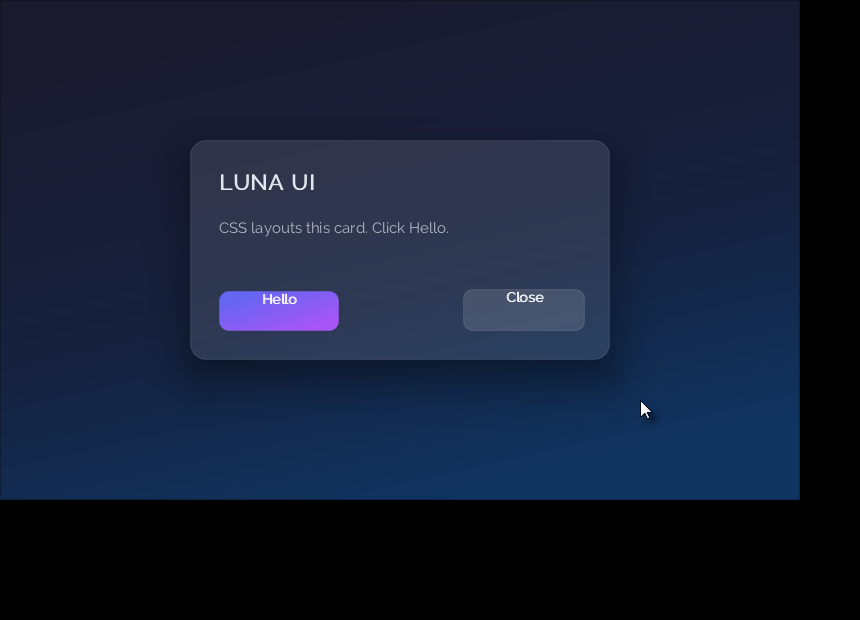
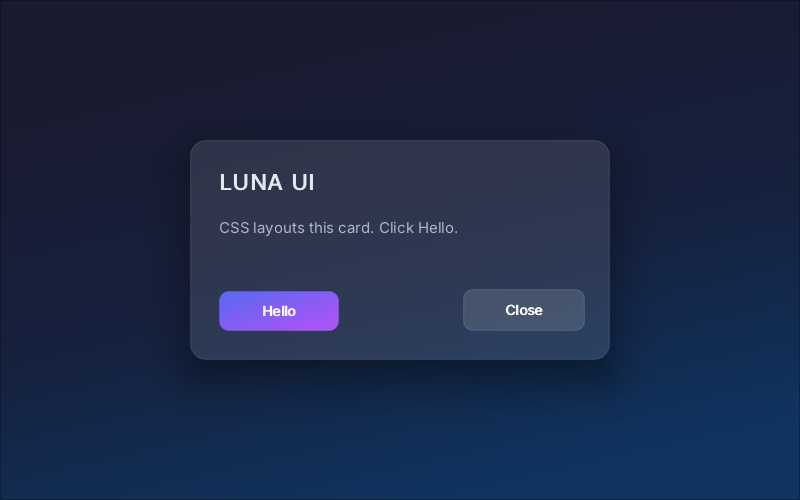
✨ Align Luna UI CSS rendering with browser behavior

diff --git a/luna-ui.h b/luna-ui.h
@@ -1539,9 +1539,10 @@ typedef struct {
     int has_rad_c[4]; float rad_c[4];   /* per-corner radius: tl, tr, br, bl */
     int has_width;  float width;
     int has_height; float height;
-    int has_padding; float padding;
+    int has_padding; int has_pad_t, has_pad_r, has_pad_b, has_pad_l; float padding;
     float pad_t, pad_r, pad_b, pad_l;
-    int has_margin; float margin_top, margin_right, margin_bottom, margin_left;
+    int has_margin; int has_margin_top, has_margin_right, has_margin_bottom, has_margin_left;
+    float margin_top, margin_right, margin_bottom, margin_left;
     int margin_top_auto, margin_right_auto, margin_bottom_auto, margin_left_auto;
     int has_left;   float left;
     int has_top;    float top;
@@ -3483,6 +3484,7 @@ static void parse_padding_shorthand(const char* val, StyleRule* rule) {
         tok = strtok(NULL, " \t");
     }
     rule->has_padding = 1;
+    rule->has_pad_t = rule->has_pad_r = rule->has_pad_b = rule->has_pad_l = 1;
     /* CSS shorthand: 1=all, 2=(v h), 3=(t h b), 4=(t r b l) */
     if (count == 1) {
         rule->pad_t = rule->pad_r = rule->pad_b = rule->pad_l = vals[0];
@@ -3512,6 +3514,8 @@ static void parse_margin_shorthand(const char* val, StyleRule* rule) {
         tok = strtok(NULL, " \t");
     }
     rule->has_margin = 1;
+    rule->has_margin_top = rule->has_margin_right = 1;
+    rule->has_margin_bottom = rule->has_margin_left = 1;
     if (count == 1) {
         rule->margin_top = rule->margin_right = rule->margin_bottom = rule->margin_left = vals[0];
     } else if (count == 2) {
@@ -4166,10 +4170,10 @@ static void apply_element_inline_style(LunaElement* e) {
         e->display_mode = rule.display_mode;
     }
     if (rule.has_margin) {
-        e->margin_top = rule.margin_top;
-        e->margin_right = rule.margin_right;
-        e->margin_bottom = rule.margin_bottom;
-        e->margin_left = rule.margin_left;
+        if (rule.has_margin_top) e->margin_top = rule.margin_top;
+        if (rule.has_margin_right) e->margin_right = rule.margin_right;
+        if (rule.has_margin_bottom) e->margin_bottom = rule.margin_bottom;
+        if (rule.has_margin_left) e->margin_left = rule.margin_left;
     }
     if (rule.has_shadow) {
         e->has_shadow = (rule.shadow_count > 0);
@@ -5057,15 +5061,15 @@ void parse_declarations(char* declarations, StyleRule* rule) {
                 }
             }
             else if (strcmp(key, "padding") == 0)          { parse_padding_shorthand(val, rule); }
-            else if (strcmp(key, "padding-top") == 0)      { rule->has_padding = 1; rule->pad_t = parse_float_val(val); }
-            else if (strcmp(key, "padding-right") == 0)    { rule->has_padding = 1; rule->pad_r = parse_float_val(val); }
-            else if (strcmp(key, "padding-bottom") == 0)   { rule->has_padding = 1; rule->pad_b = parse_float_val(val); }
-            else if (strcmp(key, "padding-left") == 0)     { rule->has_padding = 1; rule->pad_l = parse_float_val(val); }
+            else if (strcmp(key, "padding-top") == 0)      { rule->has_padding = 1; rule->has_pad_t = 1; rule->pad_t = parse_float_val(val); }
+            else if (strcmp(key, "padding-right") == 0)    { rule->has_padding = 1; rule->has_pad_r = 1; rule->pad_r = parse_float_val(val); }
+            else if (strcmp(key, "padding-bottom") == 0)   { rule->has_padding = 1; rule->has_pad_b = 1; rule->pad_b = parse_float_val(val); }
+            else if (strcmp(key, "padding-left") == 0)     { rule->has_padding = 1; rule->has_pad_l = 1; rule->pad_l = parse_float_val(val); }
             else if (strcmp(key, "margin") == 0)           { parse_margin_shorthand(val, rule); }
-            else if (strcmp(key, "margin-top") == 0)       { rule->has_margin = 1; if (strcmp(val,"auto")==0) rule->margin_top_auto=1; else rule->margin_top = parse_float_val(val); }
-            else if (strcmp(key, "margin-right") == 0)     { rule->has_margin = 1; if (strcmp(val,"auto")==0) rule->margin_right_auto=1; else rule->margin_right = parse_float_val(val); }
-            else if (strcmp(key, "margin-bottom") == 0)    { rule->has_margin = 1; if (strcmp(val,"auto")==0) rule->margin_bottom_auto=1; else rule->margin_bottom = parse_float_val(val); }
-            else if (strcmp(key, "margin-left") == 0)      { rule->has_margin = 1; if (strcmp(val,"auto")==0) rule->margin_left_auto=1; else rule->margin_left = parse_float_val(val); }
+            else if (strcmp(key, "margin-top") == 0)       { rule->has_margin = 1; rule->has_margin_top = 1; if (strcmp(val,"auto")==0) rule->margin_top_auto=1; else rule->margin_top = parse_float_val(val); }
+            else if (strcmp(key, "margin-right") == 0)     { rule->has_margin = 1; rule->has_margin_right = 1; if (strcmp(val,"auto")==0) rule->margin_right_auto=1; else rule->margin_right = parse_float_val(val); }
+            else if (strcmp(key, "margin-bottom") == 0)    { rule->has_margin = 1; rule->has_margin_bottom = 1; if (strcmp(val,"auto")==0) rule->margin_bottom_auto=1; else rule->margin_bottom = parse_float_val(val); }
+            else if (strcmp(key, "margin-left") == 0)      { rule->has_margin = 1; rule->has_margin_left = 1; if (strcmp(val,"auto")==0) rule->margin_left_auto=1; else rule->margin_left = parse_float_val(val); }
             else if (strcmp(key, "inset") == 0)            { parse_inset_shorthand(val, rule); }
             else if (strcmp(key, "left") == 0) { rule->has_left = 1; parse_length_calc(val, &rule->left, &rule->pct_left, &rule->raw_left_off); if (rule->pct_left) rule->raw_left = rule->left; }
             else if (strcmp(key, "top") == 0)  { rule->has_top = 1; parse_length_calc(val, &rule->top, &rule->pct_top, &rule->raw_top_off); if (rule->pct_top) rule->raw_top = rule->top; }
@@ -6383,6 +6387,24 @@ void update_element_style(LunaElement* e) {
             e->t_b = parent->t_b; e->t_a = parent->t_a;
         }
     }
+    /* Compact browser-UA defaults.  They live below author rules in the
+     * cascade, so a longhand such as `h1 { margin-bottom:12px }` must not
+     * accidentally erase the other three UA margin sides.  Keeping these
+     * scalar defaults here is allocation-free and adds no render-time work. */
+    if (strcmp(e->type, "body") == 0) {
+        e->margin_top = e->margin_right = e->margin_bottom = e->margin_left = 8.0f;
+    } else if (strcmp(e->type, "h1") == 0) {
+        e->font_bold = 1;
+        e->margin_top = e->margin_bottom = e->font_size * 0.67f;
+    } else if (strcmp(e->type, "h2") == 0) {
+        e->font_bold = 1;
+        e->margin_top = e->margin_bottom = e->font_size * 0.83f;
+    } else if (strcmp(e->type, "h3") == 0) {
+        e->font_bold = 1;
+        e->margin_top = e->margin_bottom = e->font_size;
+    } else if (strcmp(e->type, "p") == 0) {
+        e->margin_top = e->margin_bottom = e->font_size;
+    }
     e->has_text_shadow = 0;
     e->tsh_dx = e->tsh_dy = e->tsh_blur = 0.0f;
     e->tsh_r = e->tsh_g = e->tsh_b = 0.0f; e->tsh_a = 0.0f;
@@ -6432,6 +6454,8 @@ void update_element_style(LunaElement* e) {
     e->grad_rad_rx = 0.0f;
     e->grad_rad_ry = 0.0f;
 
+    int author_margin_top = 0, author_margin_right = 0;
+    int author_margin_bottom = 0, author_margin_left = 0;
     uint64_t rule_candidates[LUNA_RULE_WORDS];
     build_rule_candidates(e, rule_candidates);
     for (int i = 0; i < rule_count; i++) {
@@ -6553,18 +6577,16 @@ void update_element_style(LunaElement* e) {
         }
         if (r->has_padding) {
             e->padding = r->padding;
-            e->pad_t = r->pad_t; e->pad_r = r->pad_r;
-            e->pad_b = r->pad_b; e->pad_l = r->pad_l;
+            if (r->has_pad_t) e->pad_t = r->pad_t;
+            if (r->has_pad_r) e->pad_r = r->pad_r;
+            if (r->has_pad_b) e->pad_b = r->pad_b;
+            if (r->has_pad_l) e->pad_l = r->pad_l;
         }
         if (r->has_margin) {
-            e->margin_top = r->margin_top;
-            e->margin_right = r->margin_right;
-            e->margin_bottom = r->margin_bottom;
-            e->margin_left = r->margin_left;
-            e->margin_top_auto = r->margin_top_auto;
-            e->margin_right_auto = r->margin_right_auto;
-            e->margin_bottom_auto = r->margin_bottom_auto;
-            e->margin_left_auto = r->margin_left_auto;
+            if (r->has_margin_top) { author_margin_top = 1; e->margin_top = r->margin_top; e->margin_top_auto = r->margin_top_auto; }
+            if (r->has_margin_right) { author_margin_right = 1; e->margin_right = r->margin_right; e->margin_right_auto = r->margin_right_auto; }
+            if (r->has_margin_bottom) { author_margin_bottom = 1; e->margin_bottom = r->margin_bottom; e->margin_bottom_auto = r->margin_bottom_auto; }
+            if (r->has_margin_left) { author_margin_left = 1; e->margin_left = r->margin_left; e->margin_left_auto = r->margin_left_auto; }
         }
         if (r->has_position) {
             e->position_fixed = r->position_fixed;
@@ -6843,6 +6865,18 @@ void update_element_style(LunaElement* e) {
         }
     }
 
+    /* UA em margins compute from the final font size after the author cascade,
+     * not the inherited size that was present when defaults were seeded. */
+    if (strcmp(e->type, "h1") == 0 || strcmp(e->type, "h2") == 0 ||
+        strcmp(e->type, "h3") == 0 || strcmp(e->type, "p") == 0) {
+        float em = 1.0f;
+        if (strcmp(e->type, "h1") == 0) em = 0.67f;
+        else if (strcmp(e->type, "h2") == 0) em = 0.83f;
+        if (!author_margin_top) e->margin_top = e->font_size * em;
+        if (!author_margin_bottom) e->margin_bottom = e->font_size * em;
+    }
+    (void)author_margin_right;
+    (void)author_margin_left;
     apply_element_inline_style(e);
 
     if (e->letter_spacing_em) {
@@ -8302,7 +8336,7 @@ void update_layout() {
             /* Browser layout gives the body an auto height.  Do not make a
              * flex body viewport-sized unless CSS explicitly asks for it. */
             float ml = e->margin_left, mr = e->margin_right;
-            float mt = e->margin_top, mb = e->margin_bottom;
+            float mt = e->margin_top;
             e->x = ml; e->y = mt;
             e->w = window_width - ml - mr;
             if (e->w < 0.0f) e->w = 0.0f;
@@ -8315,7 +8349,10 @@ void update_layout() {
                     ? e->css_height + e->pad_t + e->pad_b + e->border_width * 2.0f
                     : e->css_height;
             } else {
-                e->h = flow_content_height(e) + mt + mb;
+                /* Margins are outside the body's border box.  Including them
+                 * here and again during positioning inflated the flex cross
+                 * axis by 16px for the browser-default 8px body margin. */
+                e->h = flow_content_height(e);
             }
             if (e->h < 0.0f) e->h = 0.0f;
             continue;
@@ -12191,12 +12228,20 @@ void render_text_fx(const char* text, float x, float y, float box_w, float box_h
             float ey = y - g_render_off_y;
             uni4f(tx_loc.uElemBounds, &tx_uni.uElemBounds, ex, ey, box_w, box_h);
             render_text_pass(atlas, line, start_x, baseline, 1.0f, 1.0f, 1.0f, 1.0f);
-            if (is_fake_bold) render_text_pass(atlas, line, start_x + 1.0f, baseline, 1.0f, 1.0f, 1.0f, 1.0f);
+            if (is_fake_bold) {
+                render_text_pass(atlas, line, start_x + 1.0f, baseline, 1.0f, 1.0f, 1.0f, 1.0f);
+                if (fsize >= 24.0f)
+                    render_text_pass(atlas, line, start_x + 2.0f, baseline, 1.0f, 1.0f, 1.0f, 1.0f);
+            }
             luna_use_program(text_program);
             uni1i(tx_loc.uGradMode, &tx_uni.uGradMode, 0);
         } else {
             render_text_pass(atlas, line, start_x, baseline, r, g, b, a);
-            if (is_fake_bold) render_text_pass(atlas, line, start_x + 1.0f, baseline, r, g, b, a);
+            if (is_fake_bold) {
+                render_text_pass(atlas, line, start_x + 1.0f, baseline, r, g, b, a);
+                if (fsize >= 24.0f)
+                    render_text_pass(atlas, line, start_x + 2.0f, baseline, r, g, b, a);
+            }
         }
         /* CSS text-decoration: underline / line-through */
         if (fx && fx->text_decoration) {
@@ -13774,6 +13819,19 @@ void luna_render(int fbw, int fbh) {
         if (eff_op <= 0.004f) { damage_drop(i); continue; }
         float dx, dy, dw, dh;
         rc_element_draw_bounds(i, &dx, &dy, &dw, &dh);
+        /* CSS propagates the root body's background to the canvas.  Keep the
+         * body's auto-height box for flex/layout, but paint its background
+         * across the whole initial containing block.  Gradients are images
+         * and repeat by default, using the body outer box as their tile. */
+        int canvas_body = g_render_root < 0 && e->parent_idx == -1 &&
+                          strcmp(e->type, "body") == 0;
+        float canvas_tile_h = e->h + e->margin_top + e->margin_bottom;
+        if (canvas_body) {
+            dx = g_render_off_x;
+            dy = g_render_off_y;
+            dw = LUNA_RRES_X;
+            dh = LUNA_RRES_Y;
+        }
         if (dw <= 0.0f || dh <= 0.0f) { damage_drop(i); continue; }
         float scale = e->cur_scale;
         /* Viewport culling: skip elements fully off the surface region. */
@@ -13871,9 +13929,22 @@ void luna_render(int fbw, int fbh) {
                            rad4, e->border_width,
                            e->cur_bd_r, e->cur_bd_g, e->cur_bd_b, e->cur_bd_a * eff_op, NULL);
         } else {
-        draw_rect_full(dx, dy, dw, dh, e->cur_r, e->cur_g, e->cur_b, e->cur_a * eff_op,
-                       rad4, e->border_width,
-                       e->cur_bd_r, e->cur_bd_g, e->cur_bd_b, e->cur_bd_a * eff_op, e);
+        if (canvas_body && e->has_gradient && canvas_tile_h > 0.5f &&
+            canvas_tile_h < dh - 0.5f) {
+            float tile_y = dy;
+            while (tile_y < dy + dh) {
+                float tile_h = canvas_tile_h;
+                if (tile_y + tile_h > dy + dh) tile_h = dy + dh - tile_y;
+                draw_rect_full(dx, tile_y, dw, tile_h,
+                               e->cur_r, e->cur_g, e->cur_b, e->cur_a * eff_op,
+                               rad4, 0.0f, 0, 0, 0, 0, e);
+                tile_y += canvas_tile_h;
+            }
+        } else {
+            draw_rect_full(dx, dy, dw, dh, e->cur_r, e->cur_g, e->cur_b, e->cur_a * eff_op,
+                           rad4, e->border_width,
+                           e->cur_bd_r, e->cur_bd_g, e->cur_bd_b, e->cur_bd_a * eff_op, e);
+        }
         }
         if (e->has_shadow) {
             for (int s = 0; s < e->shadow_count; s++) {

diff --git a/examples/sample_01.c b/examples/sample_01.c
@@ -9,9 +9,14 @@
 #define LUNA_UI_IMPLEMENTATION
 #define LUNA_UI_GLFW
 #include <stdio.h>
+#include <stdlib.h>
 #include <string.h>
 #include <GLFW/glfw3.h>
 #include "luna-ui.h"
+
+#ifndef GLFW_KEY_F12
+#define GLFW_KEY_F12 301
+#endif
 
 static GLFWwindow* g_window;
 
@@ -63,6 +68,7 @@ static const char* SAMPLE_CSS =
     "#msg.highlight { color: #34d399; }\n"
     "#hello_btn, #close_btn {\n"
     "  position: absolute; bottom: 28px; height: 40px; width: 120px;\n"
+    "  display: flex; align-items: center; justify-content: center;\n"
     "  border-radius: 10px; cursor: pointer;\n"
     "  font-size: 14px; font-weight: bold;\n"
     "  text-align: center; color: #fff;\n"
@@ -104,7 +110,10 @@ static void on_scroll(GLFWwindow* w, double xoff, double yoff) {
 }
 
 static void on_key(GLFWwindow* w, int key, int scancode, int action, int mods) {
-    (void)w; luna_key(key, scancode, action, mods);
+    (void)w;
+    if (key == GLFW_KEY_F12 && action == GLFW_PRESS)
+        luna_request_screenshot("luna-ui-sample01.png");
+    luna_key(key, scancode, action, mods);
 }
 
 static void on_fb(GLFWwindow* w, int width, int height) {
@@ -161,6 +170,8 @@ int main(void) {
     glfwSetFramebufferSizeCallback(g_window, on_fb);
 
     double prev = glfwGetTime();
+    const char* screenshot_path = getenv("LUNA_SCREENSHOT");
+    int frame_no = 0;
     while (!glfwWindowShouldClose(g_window)) {
         double now = glfwGetTime();
         luna_update(now, now - prev);
@@ -172,6 +183,11 @@ int main(void) {
         glClearColor(0.05f, 0.05f, 0.08f, 1.0f);
         glClear(GL_COLOR_BUFFER_BIT);
         luna_render(fbw, fbh);
+        if (screenshot_path && frame_no++ == 2)
+            luna_request_screenshot(screenshot_path);
+        luna_flush_pending_screenshot();
+        if (screenshot_path && frame_no > 3)
+            glfwSetWindowShouldClose(g_window, GLFW_TRUE);
 
         glfwSwapBuffers(g_window);
         glfwPollEvents();

diff --git a/examples/sample_02.c b/examples/sample_02.c
@@ -12,9 +12,14 @@
 #define LUNA_UI_IMPLEMENTATION
 #define LUNA_UI_GLFW
 #include <stdio.h>
+#include <stdlib.h>
 #include <string.h>
 #include <GLFW/glfw3.h>
 #include "luna-ui.h"
+
+#ifndef GLFW_KEY_F12
+#define GLFW_KEY_F12 301
+#endif
 
 static GLFWwindow* g_window;
 
@@ -153,6 +158,7 @@ static const char* SAMPLE_CSS =
     "}\n"
     "#submit_btn, #clear_btn, #close_btn {\n"
     "  height: 42px; border-radius: 12px; cursor: pointer;\n"
+    "  display: flex; align-items: center; justify-content: center;\n"
     "  font-size: 14px; font-weight: bold; text-align: center; color: #fff;\n"
     "  transition: 0.12s;\n"
     "}\n"
@@ -226,7 +232,10 @@ static void on_scroll(GLFWwindow* w, double xoff, double yoff) {
 }
 
 static void on_key(GLFWwindow* w, int key, int scancode, int action, int mods) {
-    (void)w; luna_key(key, scancode, action, mods);
+    (void)w;
+    if (key == GLFW_KEY_F12 && action == GLFW_PRESS)
+        luna_request_screenshot("luna-ui-sample02.png");
+    luna_key(key, scancode, action, mods);
 }
 
 static void on_char(GLFWwindow* w, unsigned int codepoint) {
@@ -288,6 +297,8 @@ int main(void) {
     glfwSetFramebufferSizeCallback(g_window, on_fb);
 
     double prev = glfwGetTime();
+    const char* screenshot_path = getenv("LUNA_SCREENSHOT");
+    int frame_no = 0;
     while (!glfwWindowShouldClose(g_window)) {
         double now = glfwGetTime();
         luna_update(now, now - prev);
@@ -299,6 +310,11 @@ int main(void) {
         glClearColor(0.04f, 0.05f, 0.08f, 1.0f);
         glClear(GL_COLOR_BUFFER_BIT);
         luna_render(fbw, fbh);
+        if (screenshot_path && frame_no++ == 2)
+            luna_request_screenshot(screenshot_path);
+        luna_flush_pending_screenshot();
+        if (screenshot_path && frame_no > 3)
+            glfwSetWindowShouldClose(g_window, GLFW_TRUE);
 
         glfwSwapBuffers(g_window);
         glfwPollEvents();

diff --git a/README.md b/README.md
@@ -10,13 +10,11 @@ Luna UI parses HTML and CSS, lays out a lightweight DOM, and renders it directly
 
 ## ✨ Screenshots
 
-These are frames rendered by the real `examples/example.c` application and the current Luna UI renderer.
+This frame is rendered by the real `examples/example.c` application and the current Luna UI renderer.
 
-| Running example | Button hover | Click handler / DOM update |
-| --- | --- | --- |
-| ![Luna UI example](docs/screenshots/luna-ui-welcome.png) | ![Luna UI hover state](docs/screenshots/luna-ui-hover.png) | ![Luna UI clicked state](docs/screenshots/luna-ui-clicked.png) |
+![Luna UI header-only example rendered by the native OpenGL renderer](docs/screenshots/luna-ui-example.png)
 
-The screenshots were captured in a build environment without the GLFW development package by using a **capture-only minimal GLFW compatibility layer** backed by an off-screen Mesa/EGL OpenGL context. The application and Luna UI rendering code were left unchanged; the compatibility layer only supplied the small GLFW host surface needed to run the real app and read back the framebuffer.
+The screenshot was captured from the real GLFW/OpenGL application with Luna UI's built-in `F12` framebuffer capture path at 960 × 640. It replaces the older broken and stale example-state images.
 
 ### Standalone demo gallery
 
@@ -38,6 +36,11 @@ the resulting framebuffer was captured with the built-in `F12` screenshot path.
 | --- | --- |
 | ![Minimal Luna UI sample](docs/screenshots/luna-ui-sample01.png) | ![Profile studio sample](docs/screenshots/luna-ui-sample02.png) |
 
+The samples now bind `F12` directly to Luna UI's PNG capture path. For an
+automated, reproducible capture, set `LUNA_SCREENSHOT` to the output filename;
+the sample renders three settling frames, writes the PNG, and exits. The images
+above use the samples' real 800 × 500 and 860 × 620 framebuffers respectively.
+
 Build and run the gallery demos locally with:
 
 ```sh
@@ -46,6 +49,7 @@ make -C examples
 ./examples/opengl_gui --size 1024x700
 ./examples/sample_01
 ./examples/sample_02
+# or: LUNA_SCREENSHOT=sample.png ./examples/sample_01
 ```
 
 ## 🚀 Quick start
